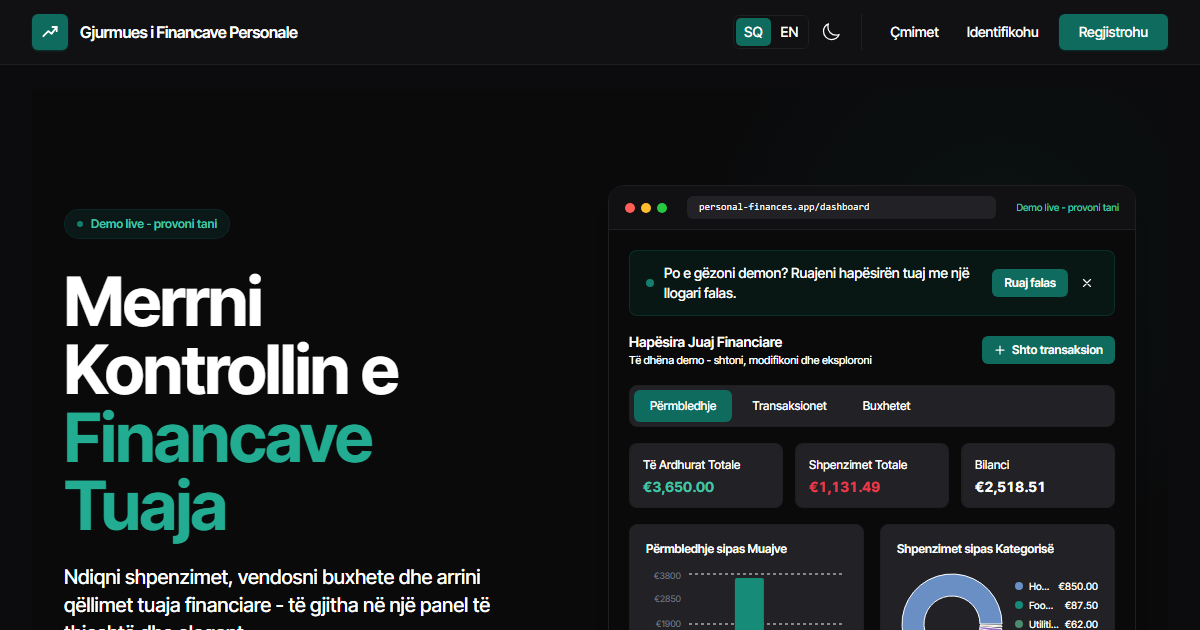
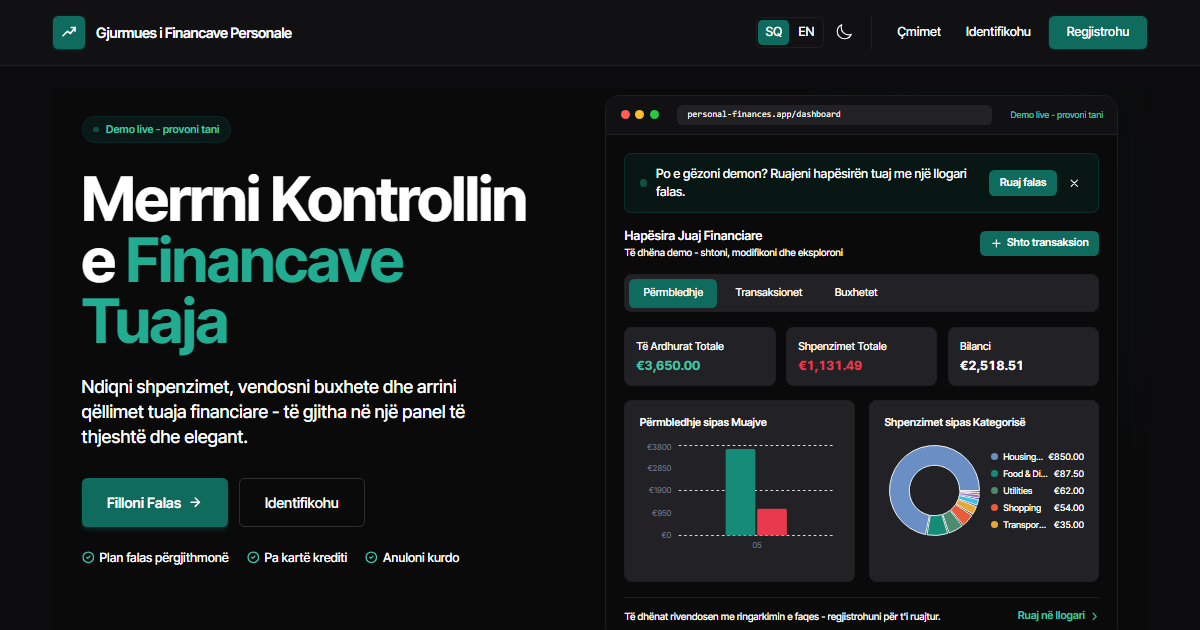
fix(landing-page): enhance quote styling for improved visual hierarchy

diff --git a/src/components/LandingPage.jsx b/src/components/LandingPage.jsx
@@ -669,9 +669,10 @@ function FounderSection({ t }) {
         className={`max-w-3xl mx-auto px-4 sm:px-6 lg:px-8 transition-all duration-700 ${visible ? 'opacity-100 translate-y-0' : 'opacity-0 translate-y-6'}`}
       >
         <Eyebrow>{t('landing.founder.eyebrow')}</Eyebrow>
-        <blockquote className="font-display text-2xl sm:text-3xl font-medium text-ink-primary dark:text-white leading-[1.35] mb-8">
-          <span className="text-brand-600 dark:text-[#22AD93] text-5xl leading-none font-bold select-none">"</span>
+        <blockquote className="relative font-display text-2xl sm:text-3xl font-medium text-ink-primary dark:text-white leading-[1.35] mb-8 pl-10 sm:pl-12">
+          <span className="absolute left-0 top-[-6px] text-brand-600 dark:text-[#22AD93] text-6xl leading-none font-serif select-none" aria-hidden="true">&ldquo;</span>
           {t('landing.founder.quote')}
+          <span className="inline-block ml-1 text-brand-600 dark:text-[#22AD93] text-5xl leading-none font-serif select-none align-bottom translate-y-2" aria-hidden="true">&rdquo;</span>
         </blockquote>
         <div className="flex items-center gap-4">
           <div className="w-10 h-10 rounded-full bg-brand-600 flex items-center justify-center text-white font-bold text-base flex-shrink-0">